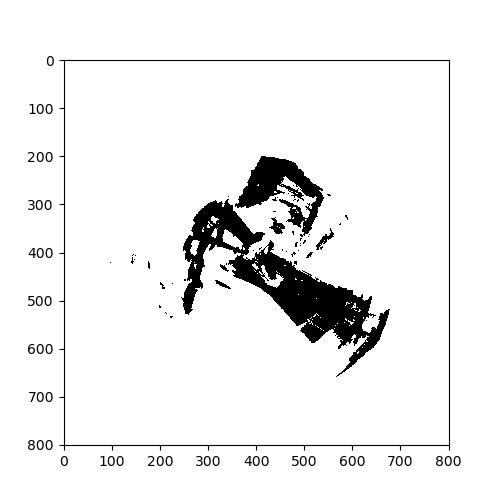
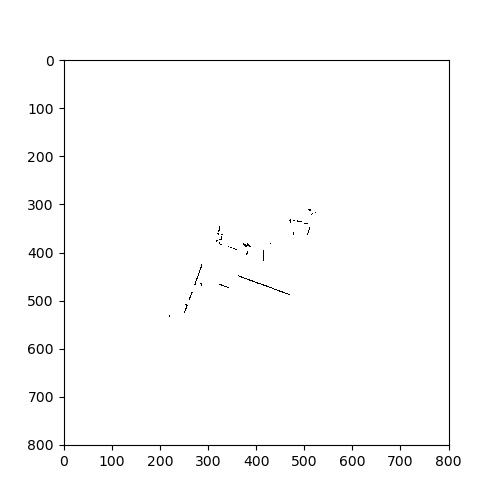
added plots

Changed region(s): [[0.36, 0.3, 0.78, 0.75]]

diff --git a/slam.py b/slam.py
@@ -53,27 +53,11 @@ class map_t:
         careful to handle instances when x/y go outside the map bounds, you can use
         np.clip to handle these situations.
         """
-        #### TODO: XXXXXXXXXXX
-        # -20 to 20 i.e 0 to 40
-        x = np.clip(x, s.xmin, s.xmax)
-        y = np.clip(y, s.ymin, s.ymax)
-        output = np.zeros((2, len(x)))
-        cumm_arr = np.zeros((s.szx))
-        for i in range(1, s.szx):
-            # if i==0:
-            #     cumm_arr[i] = 40/s.szx
-            # else:
-            cumm_arr[i] = cumm_arr[i-1] + 40/s.szx
-        # print(cumm_arr)
-        for i in range(len(x)):
-            for j in range(s.szx):
-                if cumm_arr[j]-20 > x[i]:
-                    break
-            output[0, i] = j-1
-            for j in range(s.szx):
-                if cumm_arr[j]-20 > y[i]:
-                    break
-            output[1, i] = j-1
+        x_clipped = np.clip(x, s.xmin, s.xmax)
+        y_clipped = np.clip(y, s.ymin, s.ymax)
+        x_grid = np.ceil((x_clipped - s.xmin) / s.resolution).astype(np.int16)  # - 1
+        y_grid = np.ceil((y_clipped - s.ymin) / s.resolution).astype(np.int16)  # - 1
+        output = np.vstack((x_grid, y_grid))
         return output
 
 class slam_t:
@@ -97,6 +81,8 @@ class slam_t:
         # initialize the map
         s.map = map_t(resolution)
         s.particle_posn = None
+        s.robot_trajectory = None
+        s.odom = None
 
     def read_data(s, src_dir, idx=0, split='train'):
         """
@@ -149,22 +135,19 @@ class slam_t:
         particles with w = 1 x n array of weights and returns new particle
         locations (number of particles n remains the same) and their weights
         """
-        #### TODO: XXXXXXXXXXX
         n = p.shape[1]
-        
         cumm_w = np.zeros(w.shape)
         new_p = np.zeros(p.shape)
-        cumm_w[0,0] = w[0,0]
+        cumm_w[0] = w[0]
         for i in range(1,n):
-            cumm_w[0,i] = cumm_w[0,i-1] + w[0,i]
+            cumm_w[i] = cumm_w[i-1] + w[i]
         for i in range(n):
             rand_w = np.random.uniform(0,1)
             for j in range(n):
-                if cumm_w[0,j] > rand_w:
+                if cumm_w[j] > rand_w:
                     break
             new_p[:, i] = p[:, j-1]
-        w[0, :] = 1/n
-        print(new_p)
+        w[:] = 1/n
         return new_p, w
 
     @staticmethod
@@ -186,7 +169,6 @@ class slam_t:
         # the data
         d = np.clip(d, s.lidar_dmin, s.lidar_dmax)
         assert (d[:] >= s.lidar_dmin).all() and (d[:] <= s.lidar_dmax).all()
-        # print("assertion complete")
 
         # 1. from lidar distances to points in the LiDAR frame
         num_rays = len(angles)
@@ -195,6 +177,7 @@ class slam_t:
         coords[1, :] = d[:]*np.sin(angles[:])
         coords[2, :] = np.zeros_like(coords[0])
         coords[3, :] = np.ones_like(coords[0])
+
         # 2. from LiDAR frame to the body frame
         neck_rot = euler_to_se3(0, 0, neck_angle, np.array([0,0,0]))
         head_rot = euler_to_se3(0, head_angle, 0, np.array([0,0,0]))
@@ -204,7 +187,6 @@ class slam_t:
         coords_body = np.matmul(lidar_to_body, coords)
 
         # 3. from body frame to world frame
-
         body_to_world = euler_to_se3(0, 0, p[2], np.array([p[0], p[1], s.head_height]))
         coords_world = np.matmul(body_to_world, coords_body)
         return coords_world[0:2, :]
@@ -219,7 +201,6 @@ class slam_t:
 
         if t == 0:
             return np.zeros(3)
-        #### TODO: XXXXXXXXXXX
         idx_t = np.argmin(np.abs(s.joint['t']-t))
         idx_t = t
         pt = s.lidar[idx_t]['xyth']
@@ -232,15 +213,12 @@ class slam_t:
         """"
         Compute the control using get_control and perform that control on each particle to get the updated locations of the particles in the particle filter, remember to add noise using the smart_plus_2d function to each particle
         """
-        #### TODO: XXXXXXXXXXX
         control = s.get_control(t)
-        # print("control :", control)
         updated_p = np.zeros_like(s.p)
         p = s.p
         if s.n == 1:
             updated_p = updated_p.reshape((3,-1))
             p = p.reshape((3,-1))
-        # print(updated_p)
         for i in range(s.n):
             updated_p[:, i] = smart_plus_2d(p[:, i], control) + np.random.multivariate_normal(np.zeros((3,)), s.Q)
         if s.n == 1:
@@ -249,12 +227,10 @@ class slam_t:
 
     @staticmethod
     def update_weights(w, obs_logp):
-
         """
         Given the observation log-probability and the weights of particles w, calculate the
         new weights as discussed in the writeup. Make sure that the new weights are normalized
         """
-        #### TODO: XXXXXXXXXXX
         weights = np.log(w) + obs_logp
         weights = np.exp(weights - slam_t.log_sum_exp(weights))
         return weights
@@ -269,32 +245,6 @@ class slam_t:
         free_cells = np.unique(free_cells, return_index=False, axis=1)
         free_cells = free_cells.astype(int)
         return free_cells
-        
-
-
-        # free_cells = cur_loc
-        # x_s = cur_loc[0]
-        # y_s = cur_loc[1]
-
-        # for i in obs_loc.T:
-        #     x_o = i[0]
-        #     y_o = i[1]
-        #     dir = i - cur_loc.T
-        #     dist = int(np.linalg.norm(dir))
-        #     x = np.linspace(x_s, x_o, dist, endpoint=False, dtype=int)
-        #     y = np.linspace(y_s, y_o, dist, endpoint=False, dtype=int)
-        #     new_free_cells = np.vstack((x.T, y.T))
-        #     print("new_free_cells: ", new_free_cells.shape)
-        #     free_cells = np.hstack((free_cells, new_free_cells))
-        #     print("free_cells: ", free_cells.shape)
-        # free_cells = np.unique(free_cells, return_index=False, axis=1)
-
-        # return free_cells
-
-
-
-
-
 
     def observation_step(s, t):
         """
@@ -313,9 +263,15 @@ class slam_t:
         You should ensure that map.cells is recalculated at each iteration (it is simply the binarized version of log_odds). map.log_odds is of course maintained across iterations.
         """
         #### TODO: XXXXXXXXXXX
+        odo = (s.lidar[t]['xyth'][:2])
+        grid_odom = s.map.grid_cell_from_xy(np.array([odo[0]]), np.array([odo[1]]))
+        if s.odom is None:
+            s.odom = grid_odom
+        else:
+            s.odom = np.hstack((s.odom, grid_odom))
         joint_idx = s.find_joint_t_idx_from_lidar(t)
-        head_angle = s.joint['head_angles'][0][joint_idx]
-        neck_angle = s.joint['head_angles'][1][joint_idx]
+        head_angle = s.joint['head_angles'][1][joint_idx]
+        neck_angle = s.joint['head_angles'][0][joint_idx]
         obs_log_p = np.zeros(s.n)
         lidar_cells = np.zeros((s.n, 2, 1081))
         for i in range(s.n):
@@ -336,27 +292,18 @@ class slam_t:
         s.particle_posn = p_highest
         particle_cells = s.map.grid_cell_from_xy(np.array([p_highest[0]]), np.array([p_highest[1]]))
         s.particle_on_map = particle_cells
-        # print(particle_cells)
         occupied = lidar_cells[p_highest_weight]
-        # free = s.get_free_cells(occupied, particle_cells)
-        # print(occupied[0])
-        s.map.log_odds[:,:] += s.lidar_log_odds_free
+        free = s.get_free_cells(occupied, particle_cells)
         s.map.log_odds[occupied[0], occupied[1]] += s.lidar_log_odds_occ - s.lidar_log_odds_free
-        # s.map.log_odds[free[0], free[1]] += s.lidar_log_odds_free
+        s.map.log_odds[free[0], free[1]] += s.lidar_log_odds_free
         s.map.log_odds = np.clip(s.map.log_odds, -s.map.log_odds_max, s.map.log_odds_max)
-        # occ_cells = np.where(s.map.log_odds >= s.map.log_odds_thresh)
-        occ_cells = occupied
-        # free_cells = np.where(s.map.log_odds <= s.map.log_odds_free)
-        # free_cells = free
-        # print(free_cells)
-        # s.map.cells = 0*np.ones_like(s.map.cells)
-        # print(s.map.cells.shape)
-        s.map.cells[occ_cells[0], occ_cells[1]] = 1
-        # s.map.cells[free_cells[0], free_cells[1]] = 0
-        # pyplot.figure(figsize=(5,5))
-        # colormap = colors.ListedColormap(["grey","white","black"])
-        # pyplot.imshow(s.map.cells, cmap=colormap)
-        # pyplot.show()
+        s.map.cells = np.zeros_like(s.map.cells)
+        s.map.cells[s.map.log_odds >= s.map.log_odds_thresh] = 1
+        s.curr_part = p_highest
+        if t==0:
+            s.robot_trajectory = particle_cells.reshape((2, 1))
+        else:
+            s.robot_trajectory = np.hstack((s.robot_trajectory, particle_cells.reshape((2, 1))))
         
 
     def resample_particles(s):

diff --git a/main.py b/main.py
@@ -41,7 +41,6 @@ def run_dynamics_step(src_dir, log_dir, idx, split, t0=0, draw_fig=False):
     print('> Running prediction')
     t0 = 0
     T = len(d)
-    T = 100
     ps = deepcopy(slam.p)   # maintains all particles across all time steps
     plt.figure(2); plt.clf();
     ax = plt.subplot(111)
@@ -50,7 +49,6 @@ def run_dynamics_step(src_dir, log_dir, idx, split, t0=0, draw_fig=False):
     for t in tqdm.tqdm(range(t0+1,T)):
         slam.dynamics_step(t)
         ps = np.hstack((ps, slam.p.reshape((3,1))))
-        print(slam.p)
 
         if draw_fig:
             ax.clear()
@@ -110,14 +108,10 @@ def run_slam(src_dir, log_dir, idx, split):
     be something larger than the very small value we picked in run_dynamics_step function
     above.
     """
-    
 
     slam = slam_t(resolution=0.05, Q=np.diag([2e-4,2e-4,1e-4]))
     slam.read_data(src_dir, idx, split)
     T = len(slam.lidar)
-    # T = 500
-    print(T)
-    # exit()
 
     d = slam.lidar
     xyth = []
@@ -125,13 +119,6 @@ def run_slam(src_dir, log_dir, idx, split):
         xyth.append([p['xyth'][0], p['xyth'][1],p['xyth'][2]])
     xyth = np.array(xyth)
 
-    # plt.figure(1); plt.clf();
-    # plt.title('Trajectory using onboard odometry')
-    # plt.plot(xyth[:,0], xyth[:,1])
-    # logging.info('> Saving odometry plot in '+os.path.join(log_dir, 'slam_odometry_%s_%02d.jpg'%(split, idx)))
-    # plt.savefig(os.path.join(log_dir, 'slam_odometry_%s_%02d.jpg'%(split, idx)))
-
-    # raise NotImplementedError
     # again initialize the map to enable calculation of the observation logp in
     # future steps, this time we want to be more careful and initialize with the
     # correct lidar scan. First find the time t0 around which we have both LiDAR
@@ -145,7 +132,7 @@ def run_slam(src_dir, log_dir, idx, split):
     # function
     #### TODO: XXXXXXXXXXX
     print(slam.map.cells.shape)
-    n = 1
+    n = 20
     w = np.ones(n)/float(n)
     p = np.zeros((3,n), dtype=np.float64)
     slam.init_particles(n,p,w)
@@ -153,27 +140,39 @@ def run_slam(src_dir, log_dir, idx, split):
     ps = deepcopy(slam.p)
     slam.observation_step(0)
 
+    plt.figure(2); plt.clf();
     # slam, save data to be plotted later
     #### TODO: XXXXXXXXXXX
     for t in tqdm.tqdm(range(t0,T)):
         slam.dynamics_step(t)
-        ps = np.hstack((ps, slam.p.reshape((3,1))))
-        # print("ye", slam.p)
+        ps = np.hstack((ps, slam.p))
         slam.observation_step(t)
         slam.resample_particles()
     # exit()
-    plt.figure(2); plt.clf();
+    
     plt.plot(ps[0], ps[1], '*c')
     plt.title('Trajectory using PF')
-    logging.info('> Saving plot in '+os.path.join(log_dir, 'slam_dynamics_only_%s_%02d.jpg'%(split, idx)))
-    plt.savefig(os.path.join(log_dir, 'one_slam_dynamics_only_%s_%02d.jpg'%(split, idx)))
+    # logging.info('> Saving plot in '+os.path.join(log_dir, 'slam_dynamics_only_%s_%02d.jpg'%(split, idx)))
+    plt.savefig(os.path.join(log_dir, 'one1_slam_dynamics_only_%s_%02d.jpg'%(split, idx)))
 
     plt.figure(3); plt.clf();
     pyplot.figure(figsize=(5,5))
     colormap = colors.ListedColormap(["white", "black"])
-    pyplot.imshow(slam.map.cells, cmap=colormap)
-    # pyplot.show()
-    pyplot.savefig(os.path.join(log_dir, 'map_slam_dynamics_only_%s_%02d.jpg'%(split, idx)))
+    pyplot.imshow(slam.map.cells, cmap="twilight")
+    # pyplot.imshow(slam.map.log_odds)
+    d = slam.lidar
+    xyth = []
+    for p in d:
+        xyth.append([p['xyth'][0], p['xyth'][1],p['xyth'][2]])
+    xyth = np.array(xyth)
+    x_odom = slam.odom[0, :]
+    y_odom = slam.odom[1, :]
+    plt.plot(y_odom, x_odom, '*', markersize=1, color='blue')
+
+    x_trajectory = slam.robot_trajectory[0, :]
+    y_trajectory = slam.robot_trajectory[1, :]
+    plt.plot(y_trajectory, x_trajectory, '*', markersize=0.05, color='green')
+    pyplot.savefig(os.path.join(log_dir, 'map4_slam_dynamics_only_%s_%02d.jpg'%(split, idx)))
     
 
 
@@ -195,13 +194,13 @@ def main(src_dir, log_dir, idx, split, mode):
     random.seed(42)
 
     if mode == 'dynamics':
-        run_dynamics_step(src_dir, log_dir, idx, split)
+        run_dynamics_step(src_dir, log_dir, 3, split)
         sys.exit(0)
     elif mode == 'observation':
         run_observation_step(src_dir, log_dir, idx, split)
         sys.exit(0)
     else:
-        p = run_slam(src_dir, log_dir, idx, split)
+        p = run_slam(src_dir, log_dir, 3, split)
         return p
 
 if __name__=='__main__':
